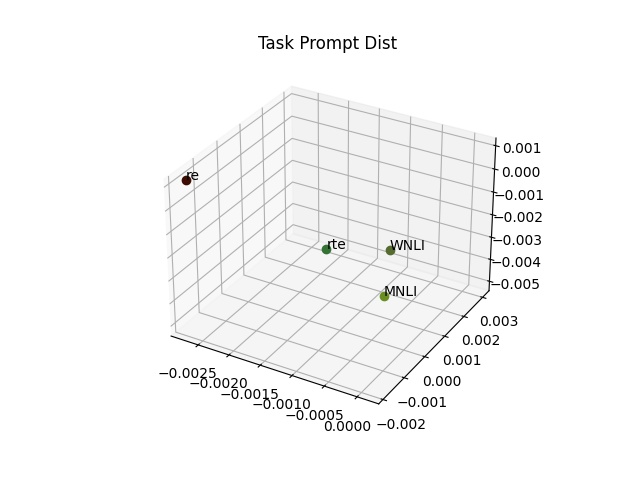
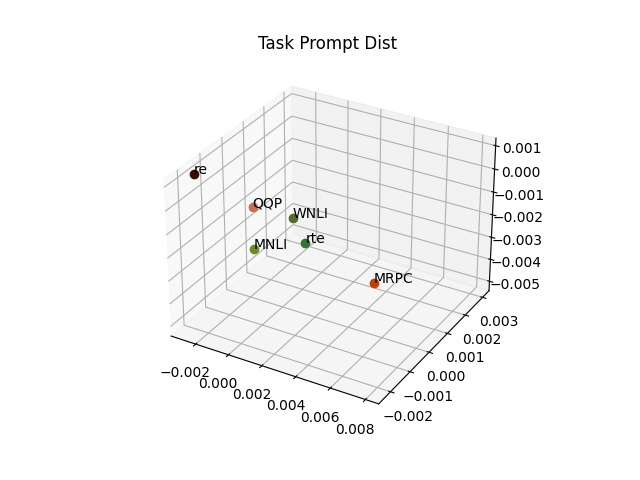
update

diff --git a/draw_cuda_taskprompt.py b/draw_cuda_taskprompt.py
@@ -392,8 +392,11 @@ blocked_list = []
 #sentiment, NLI, RE, Paraphrase
 #blocked_list = [5,8]
 
+#NLI, RE, Paraphrase
+blocked_list = [0,5,8,9,10]
+
 #NLI, RE
-blocked_list = [0,4,5,6,8,9,10]
+#blocked_list = [0,4,5,6,8,9,10]
 
 #sentiment, RE
 #blocked_list = [5,8,3,4,5,6,7,8,2]
